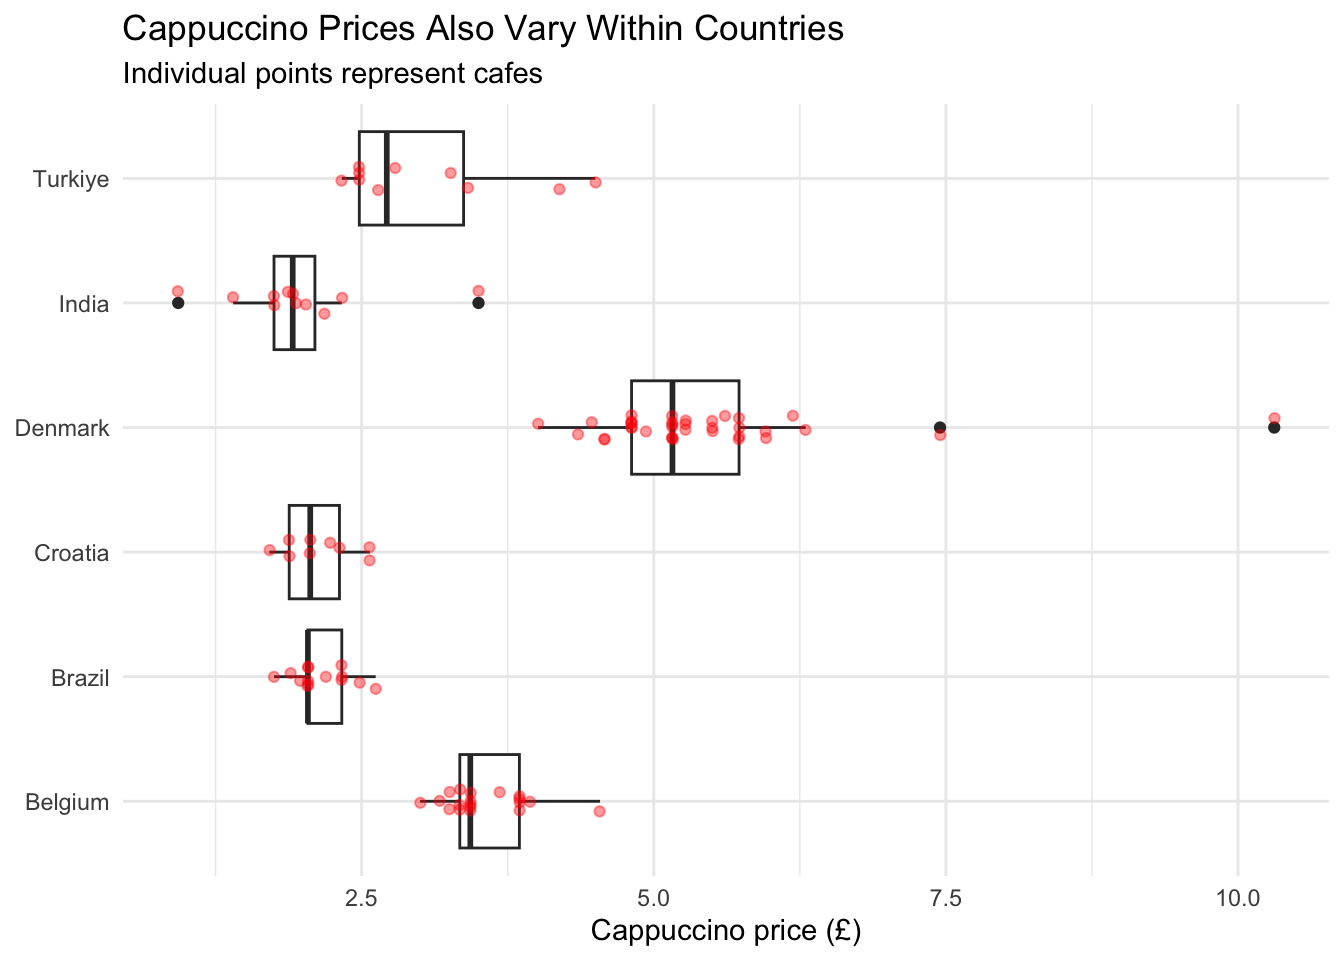
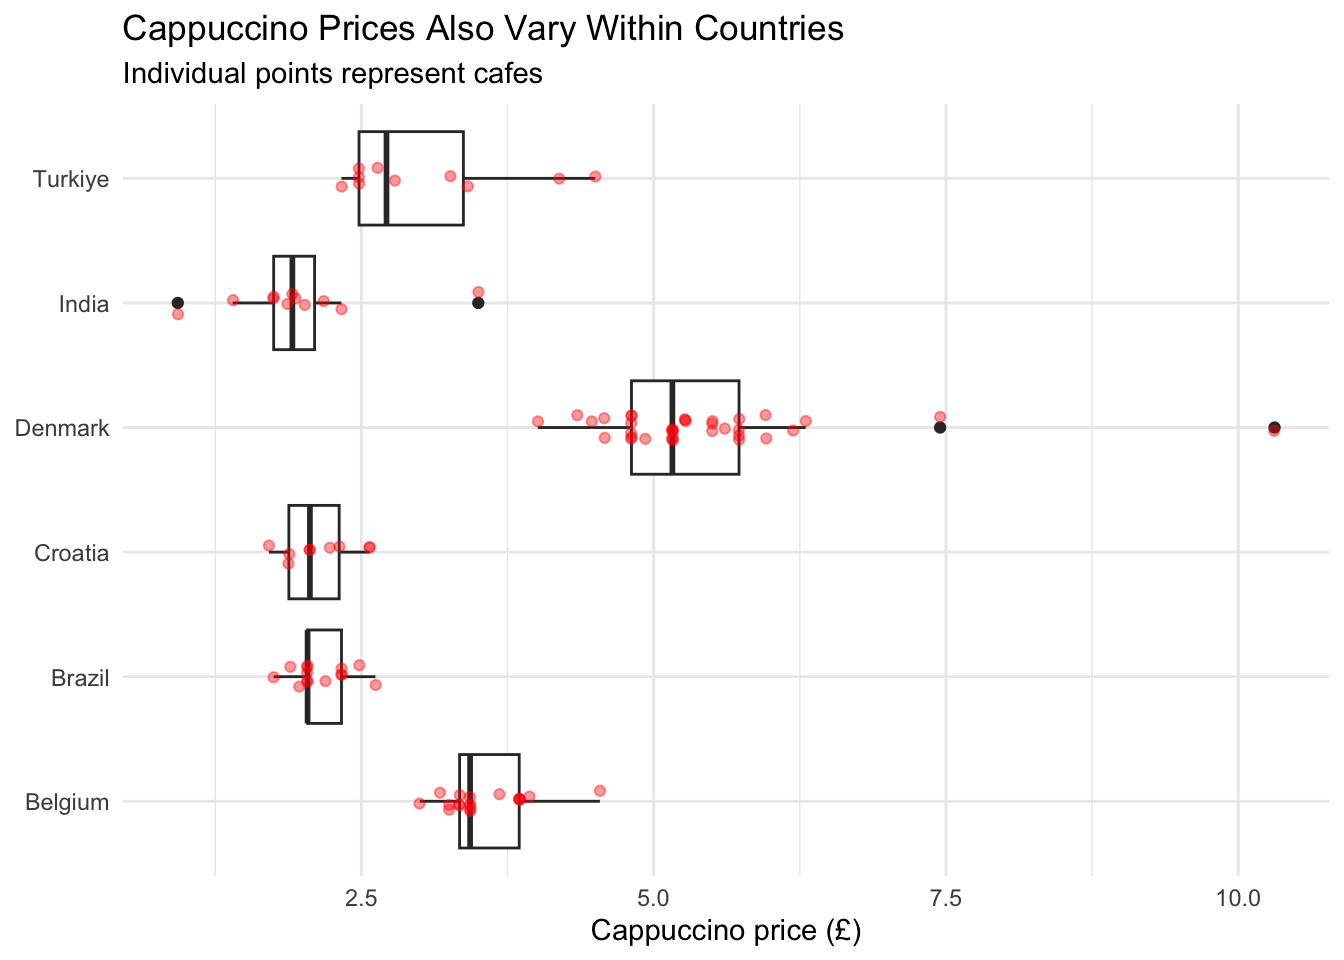
Built site for gh-pages

diff --git a/index.html b/index.html
@@ -479,8 +479,8 @@ cookieconsent.run({
 </header><p>Welcome to my online portfolio for COMP/STAT112 course taken at <a href="https://www.macalester.edu/">Macalester College</a>. Please, use the side bar on the left for navigation.</p>
 <div class="cell">
 <div class="cell-output-display">
-<div class="wordcloud2 html-widget html-fill-item" id="htmlwidget-d00849990d80a4a4c356" style="width:100%;height:464px;"></div>
-<script type="application/json" data-for="htmlwidget-d00849990d80a4a4c356">{"x":{"word":["welcome","to","comp","stat","212","mac","st paul"],"freq":[10,2,8,8,8,6,6],"fontFamily":"Segoe UI","fontWeight":"bold","color":"random-dark","minSize":0,"weightFactor":18,"backgroundColor":"white","gridSize":0,"minRotation":-0.7853981633974483,"maxRotation":0.7853981633974483,"shuffle":true,"rotateRatio":0.4,"shape":"cardioid","ellipticity":0.65,"figBase64":null,"hover":null},"evals":[],"jsHooks":{"render":[{"code":"function(el,x){\n                        console.log(123);\n                        if(!iii){\n                          window.location.reload();\n                          iii = False;\n\n                        }\n  }","data":null}]}}</script>
+<div class="wordcloud2 html-widget html-fill-item" id="htmlwidget-ee86243019615b03c29c" style="width:100%;height:464px;"></div>
+<script type="application/json" data-for="htmlwidget-ee86243019615b03c29c">{"x":{"word":["welcome","to","comp","stat","212","mac","st paul"],"freq":[10,2,8,8,8,6,6],"fontFamily":"Segoe UI","fontWeight":"bold","color":"random-dark","minSize":0,"weightFactor":18,"backgroundColor":"white","gridSize":0,"minRotation":-0.7853981633974483,"maxRotation":0.7853981633974483,"shuffle":true,"rotateRatio":0.4,"shape":"cardioid","ellipticity":0.65,"figBase64":null,"hover":null},"evals":[],"jsHooks":{"render":[{"code":"function(el,x){\n                        console.log(123);\n                        if(!iii){\n                          window.location.reload();\n                          iii = False;\n\n                        }\n  }","data":null}]}}</script>
 </div>
 </div>
 

diff --git a/404.html b/404.html
@@ -7,7 +7,7 @@
 <meta name="viewport" content="width=device-width, initial-scale=1.0, user-scalable=yes">
 
 
-<title>quarto-input4e325b2ea1de5898 – COMP/STAT212 Portfolio</title>
+<title>quarto-inputd489341745af083c – COMP/STAT212 Portfolio</title>
 <style>
 /* Default styles provided by pandoc.
 ** See https://pandoc.org/MANUAL.html#variables-for-html for config info.
